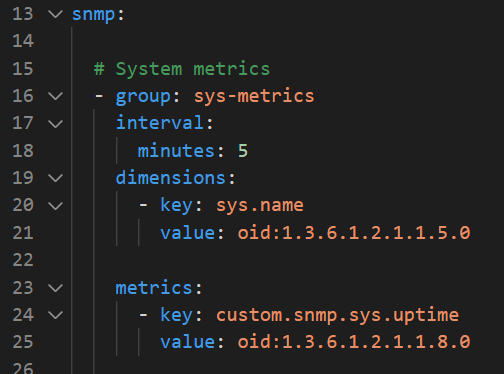
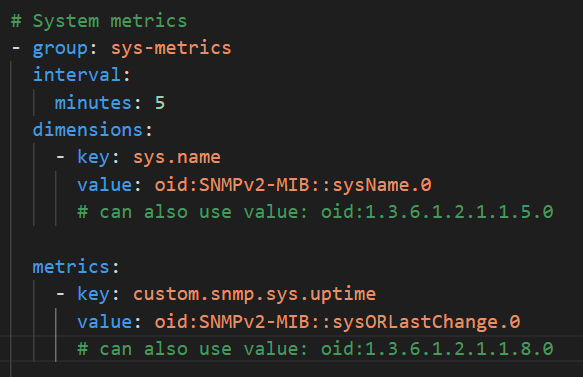
Add more to SNMP exploration session

diff --git a/extensions-as-code/lab-guide/content/03_snmp_extension/01_explore_yaml/index.md b/extensions-as-code/lab-guide/content/03_snmp_extension/01_explore_yaml/index.md
@@ -1,0 +1,96 @@
+# Exploring the SNMP extension
+
+The yaml file for this extension already exists, let's grab it:
+
+1. Double click the `clone_project.bat` file, under `Desktop/training/scripts`
+    * Alternetivaly, you can also run `git clone --depth=1 https://github.com/Dynatrace/perform-2022-hotday.git C:\Users\dtu_training\Desktop\training\perform-2022-hotday`
+
+
+This will create a folder called `perform-2022-hotday` in the `Desktop/training` folder, our extension is in `extensions-as-code/snmp-demo-extension`
+
+## Structure
+
+The `extension.yaml` file for this extension has five sessions
+
+### Mandatory fields
+
+The first lines are the mandatadory fields for any extension, they have metadata that includes:
+
+* `name`: must start with `custom:` for custom extensions
+* `version`: Follows [simver](https://simver.org/) format
+* `minDynatraceVersion`: This is an important fields, it determines both:
+    * The schema version that we are targeting
+    * The minimum Activegate (or OneAgent) version that is able to run this extension
+* `author`
+
+![yaml-01](../../resources/08-yaml-01.png)
+
+### SNMP
+
+The SNMP session is comprised of `groups` and `subgroups`.  
+Inside them, we define what are the metrics and the dimensions we want to capture, and how often we want to capture them.
+
+The first group is capturing a system level metric every five minutes.  
+
+The ID of the metric is `custom.snmp.sys.uptime`, the value is whatever the OID (Object IDentifier) `oid:SNMPv2-MIB::sysORLastChange.0` returns.
+
+We also add one dimension to this metric, called `sys.name`. The value of this dimension is also coming from an OID, `oid:SNMPv2-MIB::sysName.0`
+  
+![yaml-02](../../resources/09-yaml-02.png)
+
+We can test that these values return what we expect, by perfoming an `snmpget` command. The Windows VM has the `net-snmp` package installed, so you can run:
+
+```bash
+snmpget -v 2c -c network/firewall/paloalto-pa-5000 localhost:1024 SNMPv2-MIB::sysName.0 SNMPv2-MIB::sysORLastChange.0
+```
+
+And you should receive the output:
+
+```
+SNMPv2-MIB::sysName.0 = STRING: Palo Alto PA-5000 - Dev Environment
+SNMPv2-MIB::sysORLastChange.0 = Timeticks: (15329345) 1 day, 18:34:53.5
+``` 
+
+#### MIBs
+
+Note that for both of these we can also use the corresponding raw OID values: `oid:1.3.6.1.2.1.1.8.0` and `oid:1.3.6.1.2.1.1.5.0`, these can be used when you don't have access to the MIB (Management Information Base) files to translate the OIDs.
+
+There is a list of MIB files that come bundled with the Activegate, under `C:\Program Files\dynatrace\remotepluginmodule\agent\datasources\snmp\mib-files`.  
+We can also bundle new MIB files in our extension, under a `snmp` folder, these will be parsed as well.
+
+
+#### Tables
+
+Sometimes we don't want to get a specific value for a single OID, but we want to iterate over a list of OIDs. A basic example is when we want to monitor the Network Interfaces of our devices.  
+
+Writing `oid:IF-MIB::ifDesc:1, oid:IF-MIB::ifDesc:2, oid:IF-MIB::ifDesc:3, etc` is not practical, so Dynatrace provides a way for us to get all `oid:IF-MIB::ifDesc` at once, this is called an `SNMP table`.  
+
+Our extension makes use of this technique, by setting `table: true` in the subgroup configuration
+
+
+![yaml-03](../../resources/10-yaml-03.png)
+
+
+## Metrics
+
+The `metrics` session is optional but it is always a nice addition to any extension, it provides metric metadata like `displayName` and `unit`. These will make your extension easier to use, understand and chart.
+
+![yaml-04](../../resources/11-yaml-04.png)
+
+In our example, an user would be able to search for the metric `Interface In Octets`, which is much better than `custom.snmp.interface.in.octets.count`.
+
+We have also declared that the unit for this metric is `Byte`, so Dynatrace will display it correctly in charts, and even convert to `MegaByte`, `GigaByte`, etc when appropriate, so that humans can easily consume the data.  
+
+The metadata can also be accessed (and edited) directly in Dynatrace, under `Metrics` in the left menu.
+
+![yaml-05](../../resources/12-yaml-05.png)
+
+
+Take a note of the dimensions in the screenshot above. We only declared a single dimension, called `interface.name` in the `extension.yaml`, but we have several more showing, most are automatically added to all SNMP extensions, like `device`,  `device.address` and `device.name`, others have been added because interface metrics are a `subgroup` of system metrics, so it inherited the `sys.name` dimension.  
+
+There are also two special dimensions called `dt.entity.custom_snmp:device` and `dt.entity.custom_snmp:interface` which will be discussed later.  
+
+
+Another important thing to note about metric metadata, you can declare it for **any** *MINT* metric present in Dynatrace, you are not limited to metrics captured in the same extension.yaml file. So if you are ingesting metrics from some other source, like [telegraf](https://www.dynatrace.com/support/help/shortlink/telegraf) for instance, you can have an `extension.yaml` that only declares metadata about those metrics
+
+## Topology
